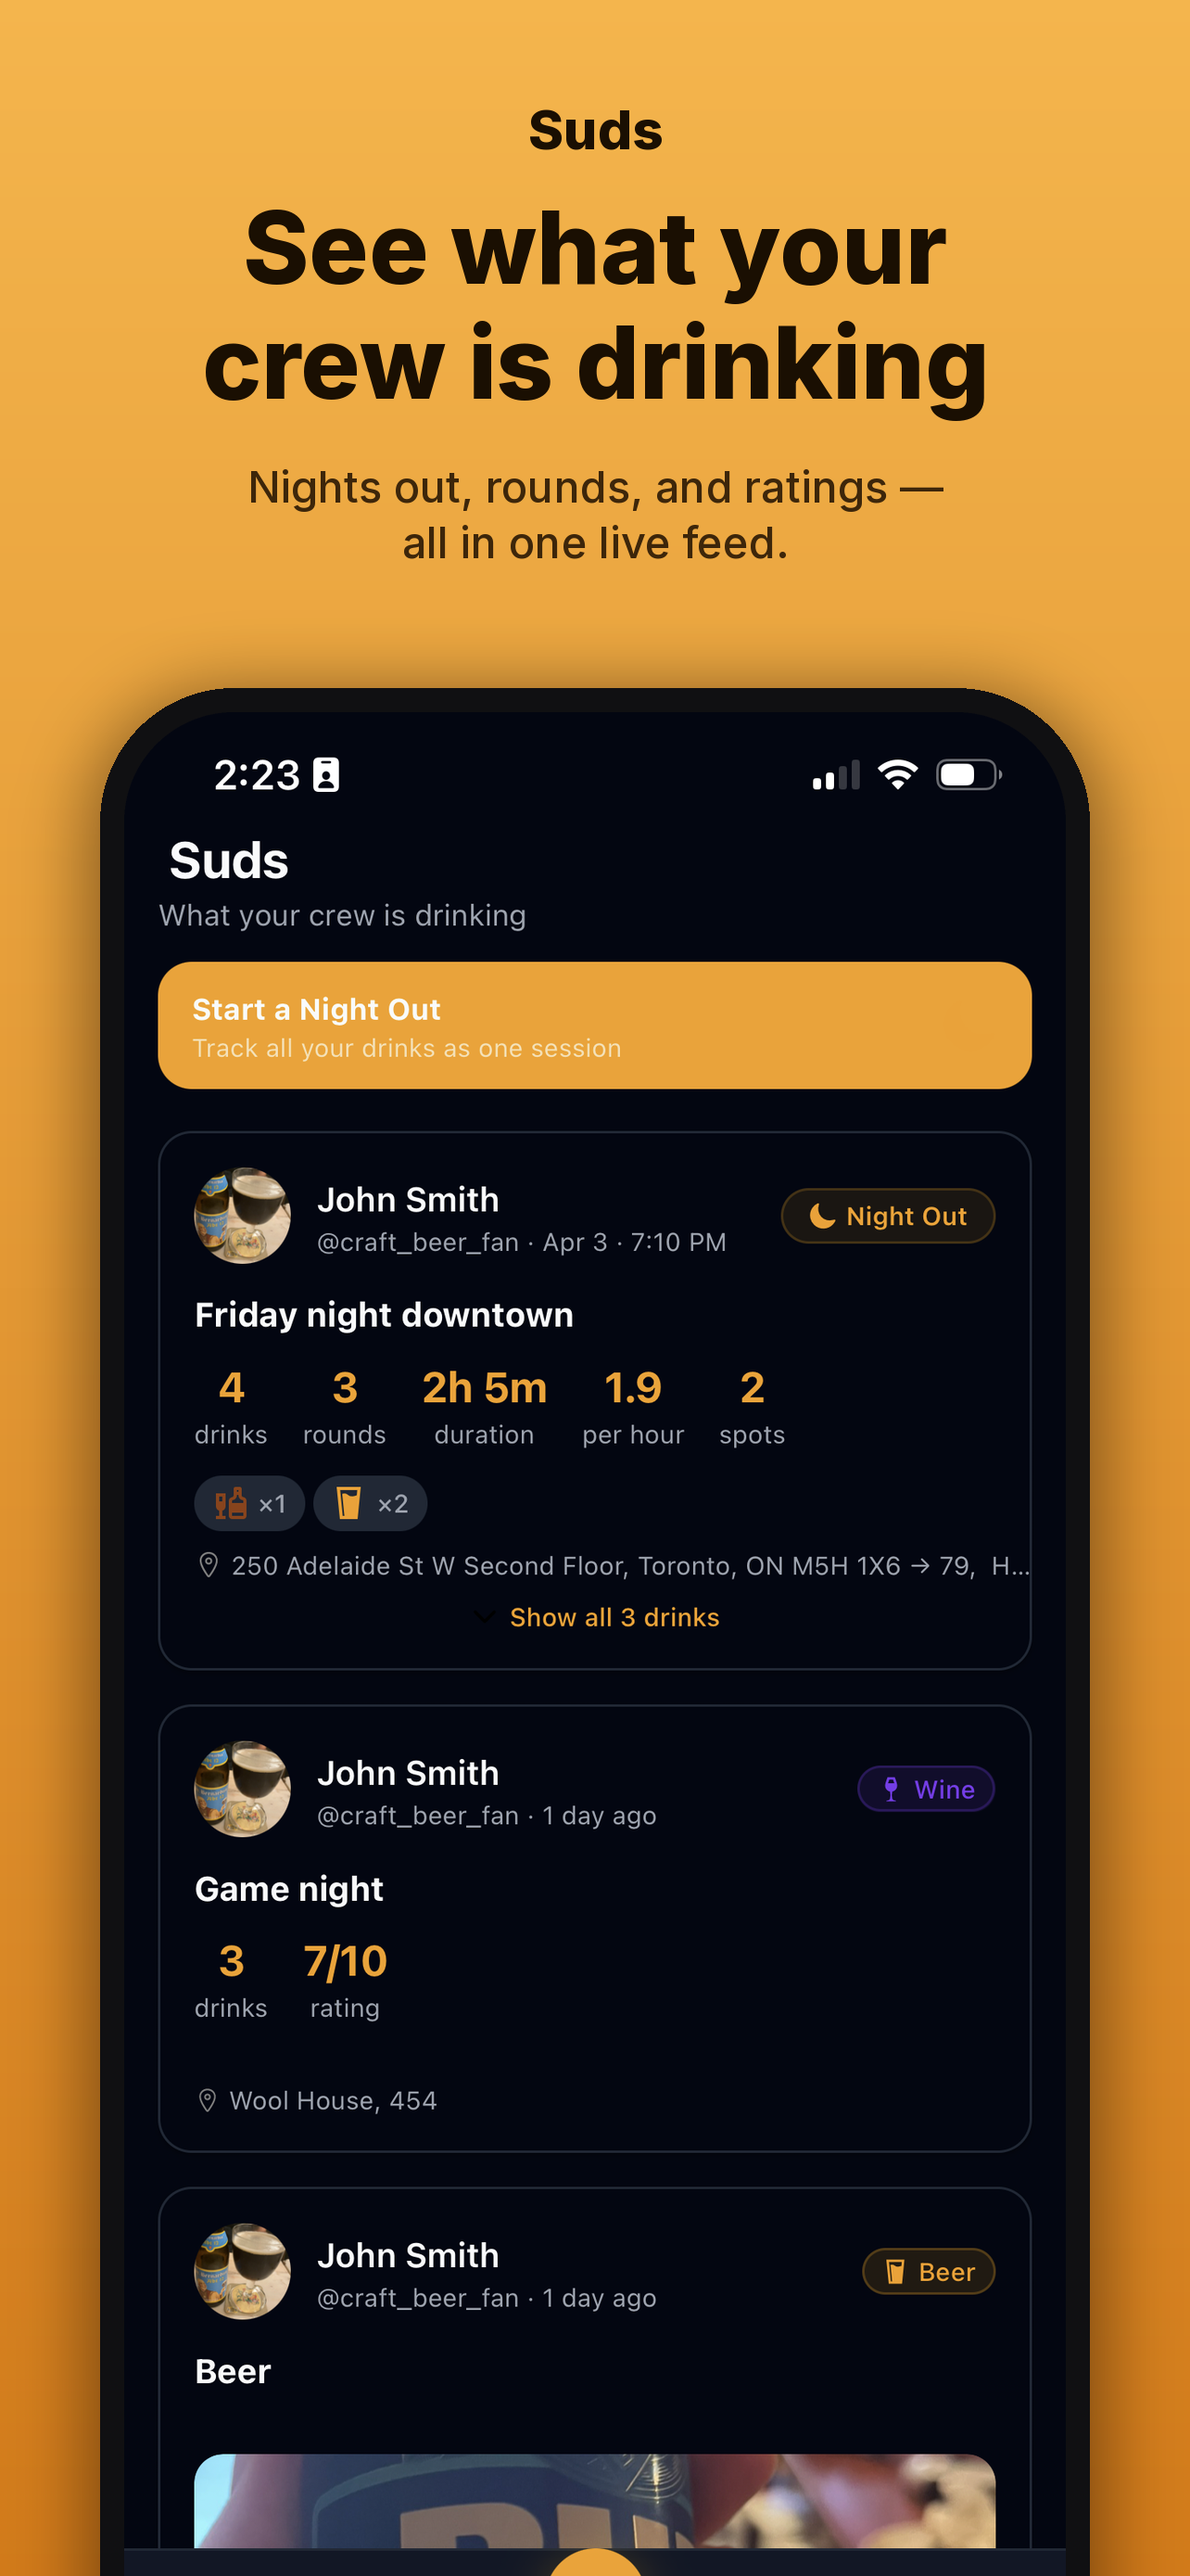
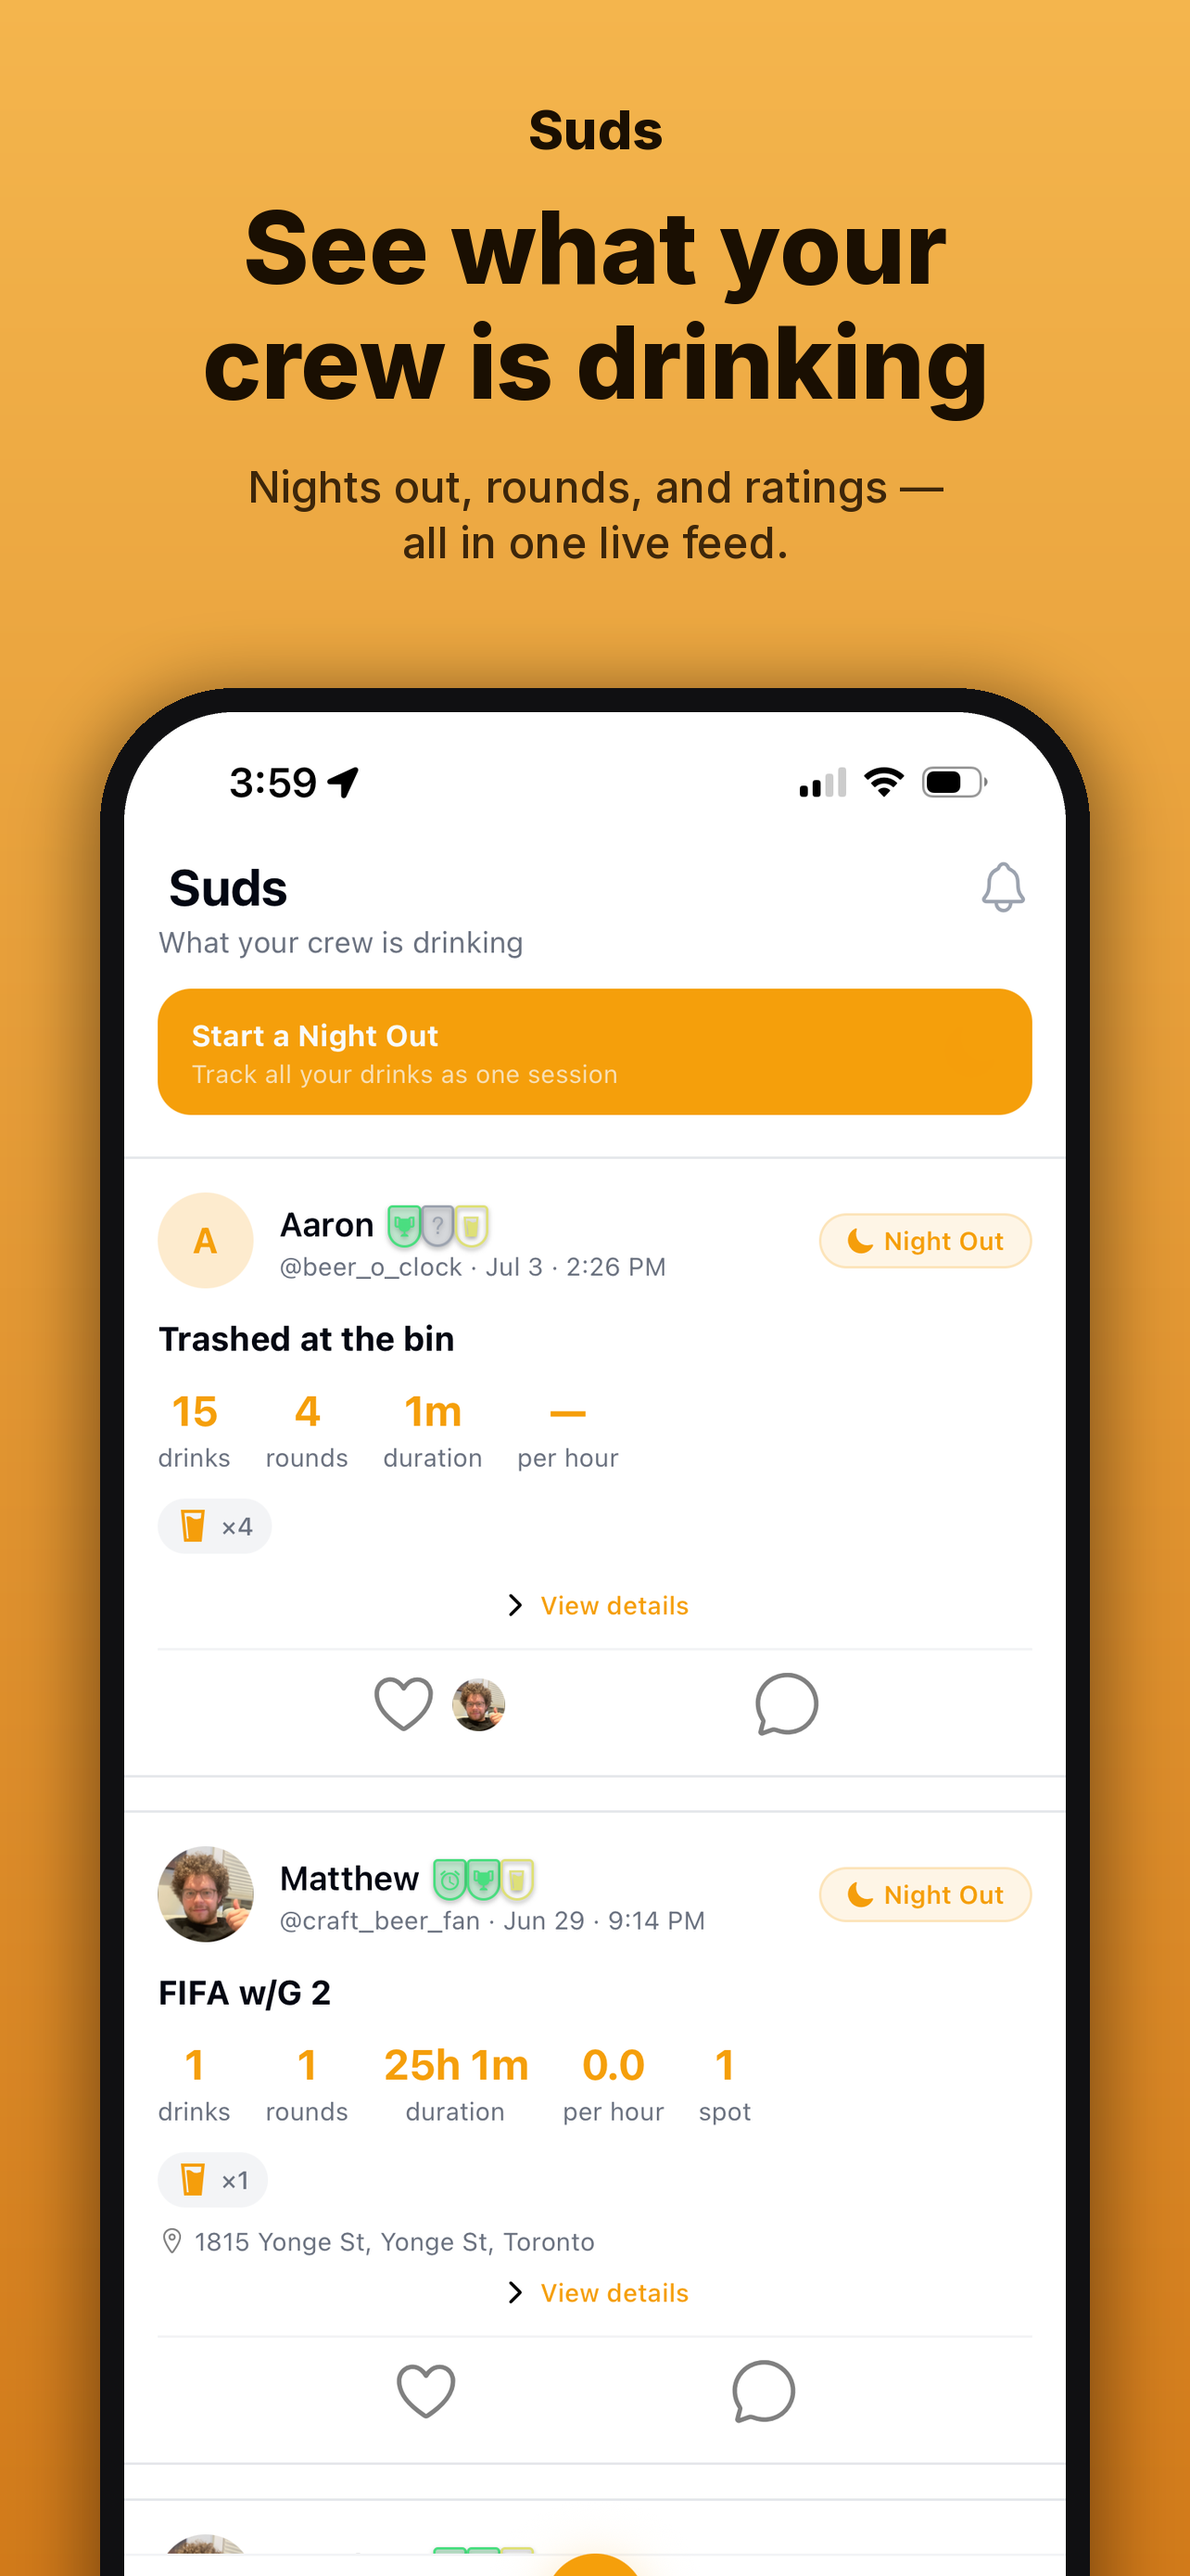
Regenerate App Store screenshots from updated light-mode captures
Source screenshots now come from imagesforapple/. Swapped the third
shot from the stats screen to the Night Out session detail.

Claude-Session: https://claude.ai/code/session_01SuBNR95R2TEV6GghUgtLfA

diff --git a/scripts/generate_app_store_screenshots.py b/scripts/generate_app_store_screenshots.py
@@ -20,8 +20,8 @@ import urllib.request
 from PIL import Image, ImageDraw, ImageFilter, ImageFont
 
 ROOT = os.path.dirname(os.path.dirname(os.path.abspath(__file__)))
-ASSETS = os.path.join(ROOT, "assets")
-OUT_DIR = os.path.join(ASSETS, "app-store")
+SRC_DIR = os.path.join(ROOT, "imagesforapple")
+OUT_DIR = os.path.join(ROOT, "assets", "app-store")
 FONT_CACHE = os.path.join(ROOT, ".cache", "fonts")
 
 CANVAS = (1284, 2778)  # Apple 6.7" portrait
@@ -36,22 +36,22 @@ BEZEL = (16, 16, 18)
 
 SHOTS = [
     {
-        "src": "feed.png",
+        "src": "01feed.png",
         "out": "01-feed.png",
         "headline": "See what your\ncrew is drinking",
         "subhead": "Nights out, rounds, and ratings —\nall in one live feed.",
     },
     {
-        "src": "map.png",
+        "src": "02map.png",
         "out": "02-map.png",
         "headline": "Every round,\non the map",
         "subhead": "Hold anywhere to drop a drink and\ntrace the night’s route.",
     },
     {
-        "src": "view-stats.png",
-        "out": "03-stats.png",
-        "headline": "Know your pace",
-        "subhead": "Weekly limits, streaks, and trends\nthat keep you honest.",
+        "src": "08nightout.png",
+        "out": "03-nightout.png",
+        "headline": "Track the whole\nnight out",
+        "subhead": "Rounds, spots, and pace — one session\nfrom first pour to last call.",
     },
 ]
 
@@ -133,7 +133,7 @@ def compose(shot) -> Image.Image:
     draw_centered(draw, w, y + 34, shot["subhead"], subhead_font, INK_SOFT, line_gap=14)
 
     # Device frame, bleeding off the bottom edge
-    shot_img = Image.open(os.path.join(ASSETS, shot["src"])).convert("RGB")
+    shot_img = Image.open(os.path.join(SRC_DIR, shot["src"])).convert("RGB")
     screen_w = 1016
     screen_h = round(shot_img.height * screen_w / shot_img.width)
     shot_img = shot_img.resize((screen_w, screen_h), Image.LANCZOS)
